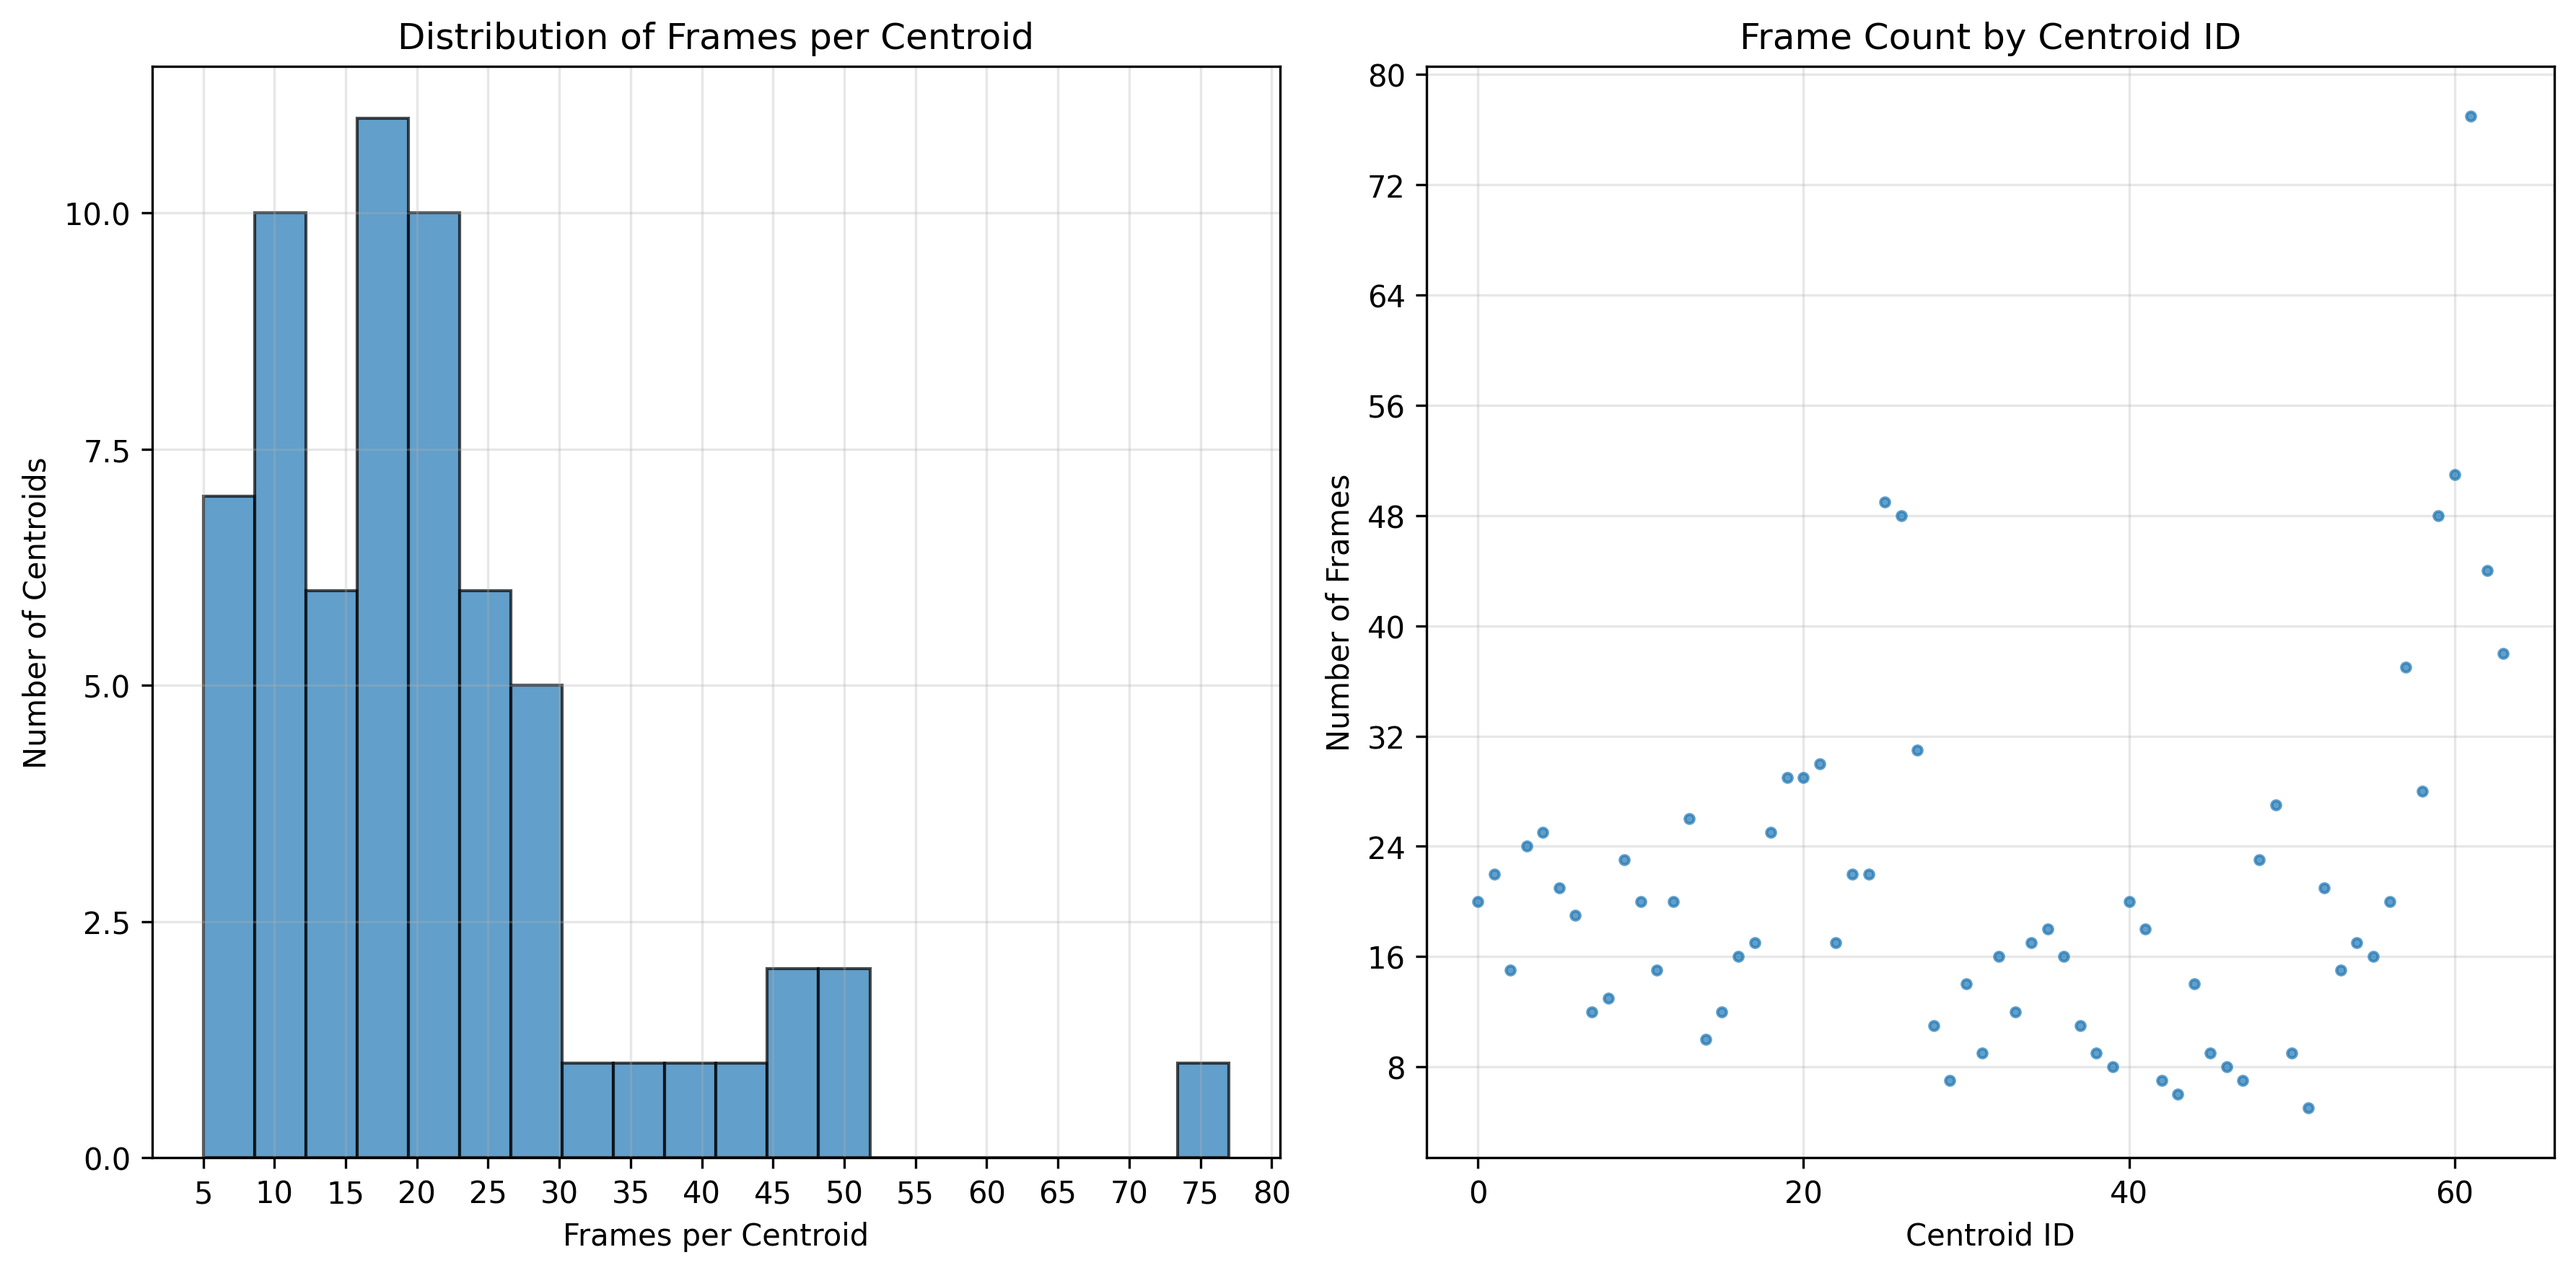
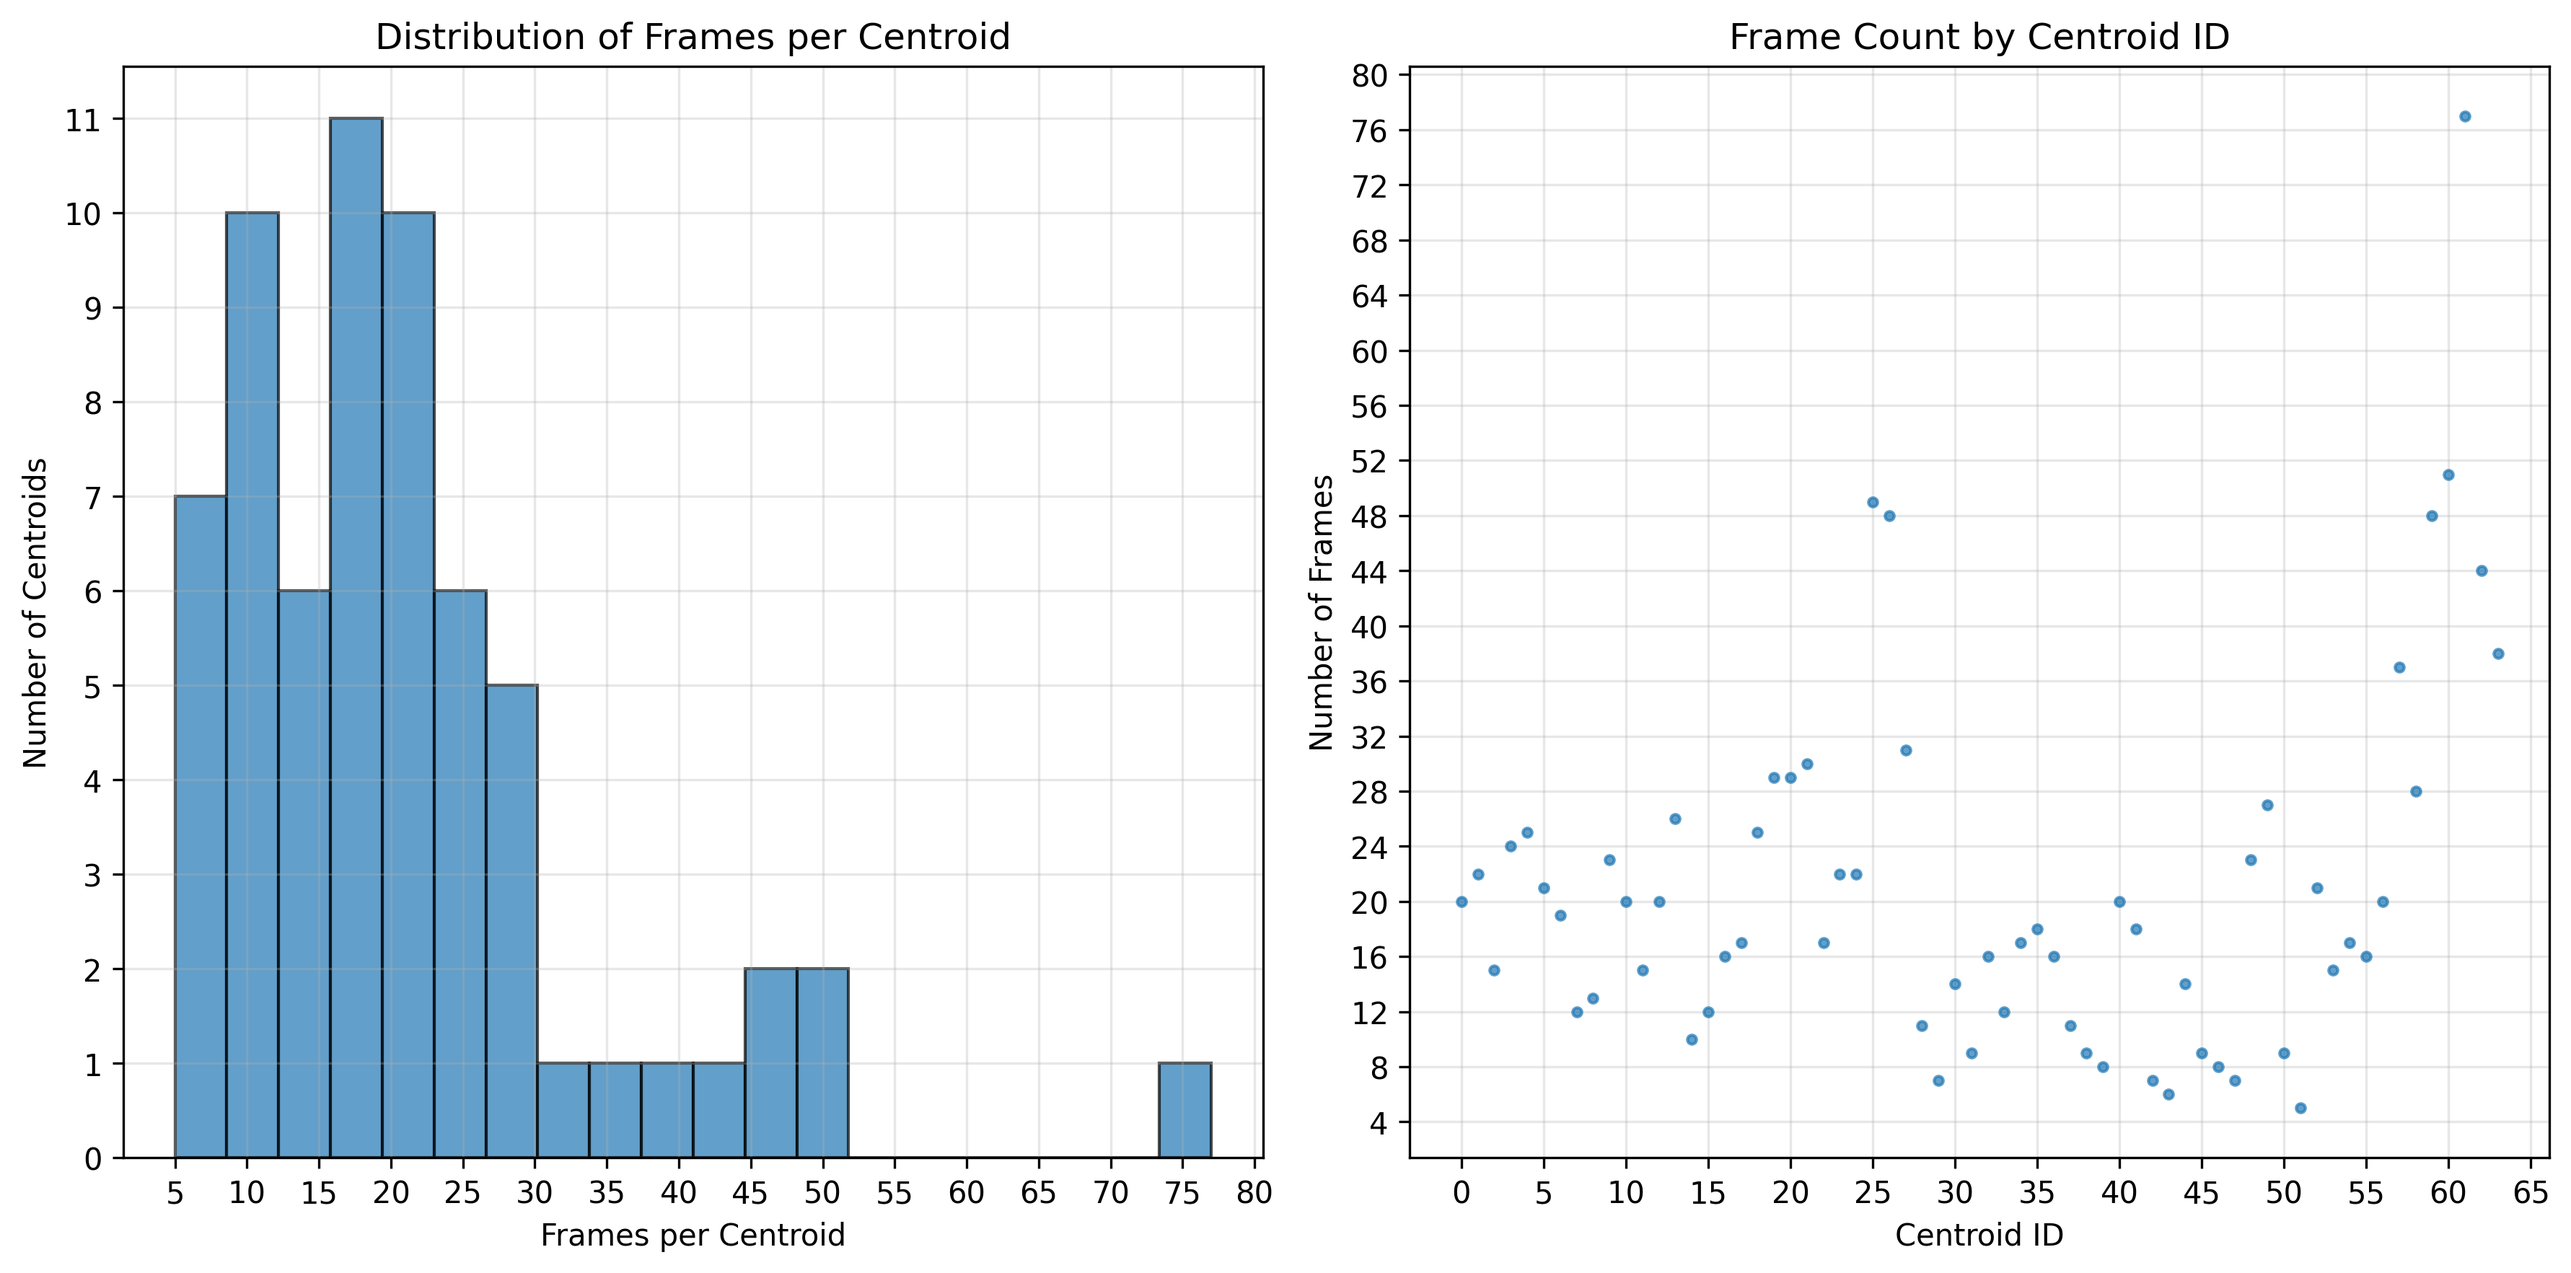
Better image

diff --git a/CodeVector/analysis_utils_enhanced.py b/CodeVector/analysis_utils_enhanced.py
@@ -299,7 +299,7 @@ def plot_centroid_distribution(analysis: Dict, save_path: str = None):
 
     # Set maximum number of ticks
     plt.gca().xaxis.set_major_locator(MaxNLocator(nbins=16))
-    plt.gca().yaxis.set_major_locator(MaxNLocator(nbins=5))
+    plt.gca().yaxis.set_major_locator(MaxNLocator(nbins=12))
 
     # Plot centroid usage over centroid IDs
     plt.subplot(1, 2, 2)
@@ -310,8 +310,8 @@ def plot_centroid_distribution(analysis: Dict, save_path: str = None):
     plt.grid(True, alpha=0.3)
 
     # Set maximum number of ticks
-    plt.gca().xaxis.set_major_locator(MaxNLocator(nbins=4))
-    plt.gca().yaxis.set_major_locator(MaxNLocator(nbins=10))
+    plt.gca().xaxis.set_major_locator(MaxNLocator(nbins=16))
+    plt.gca().yaxis.set_major_locator(MaxNLocator(nbins=20))
 
     plt.tight_layout()
     
